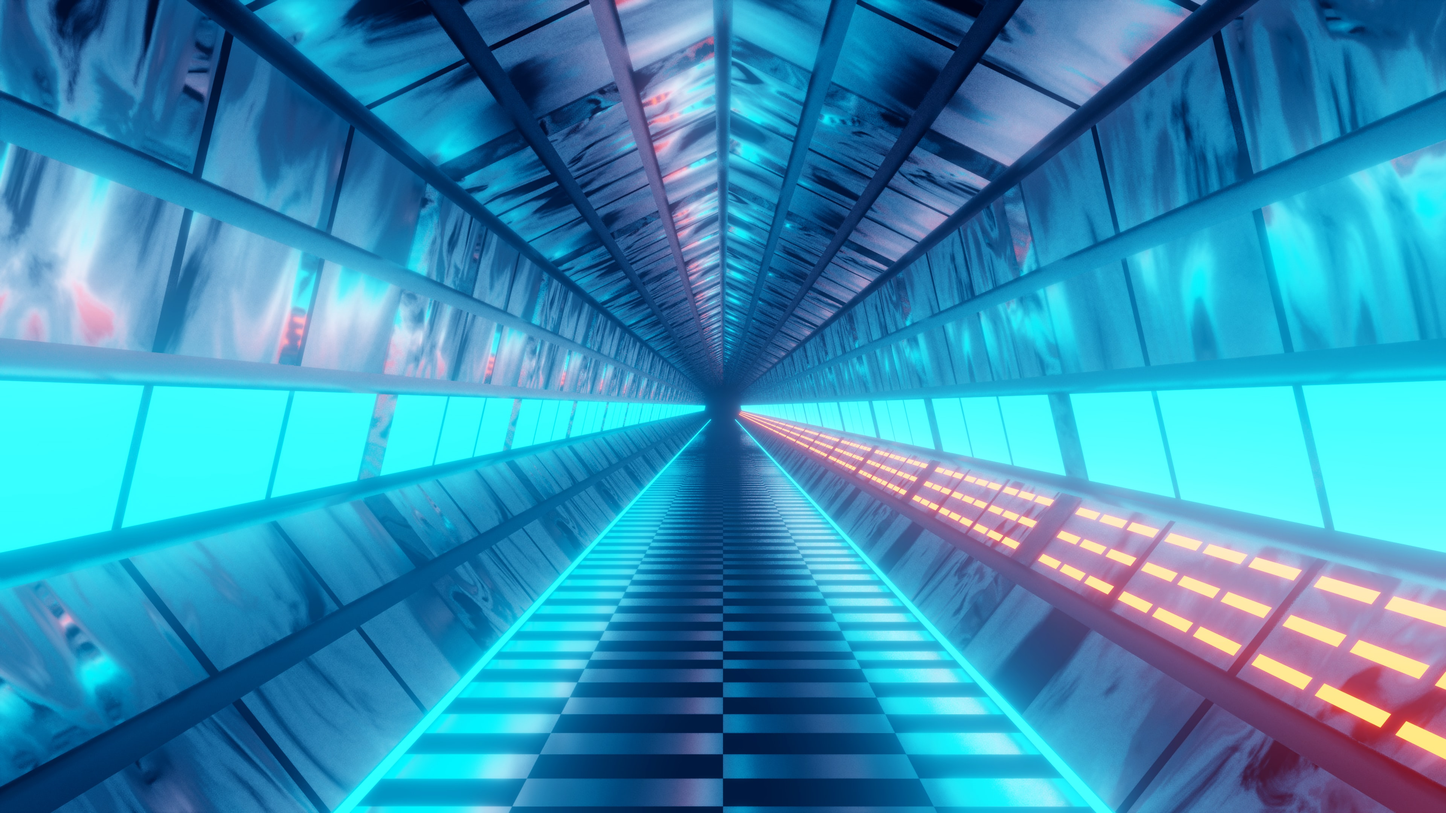
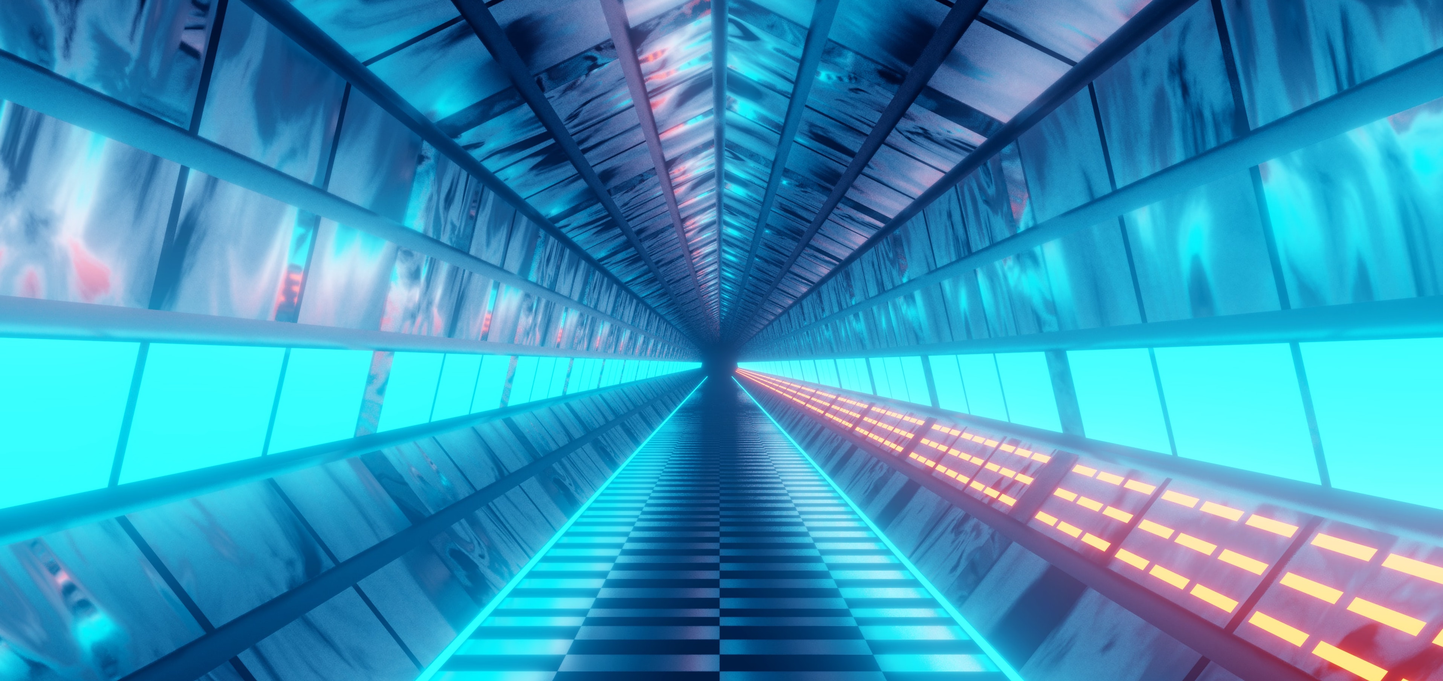
fixing AR index and image size

diff --git a/content/featured/CovidVisualization/index.md b/content/featured/CovidVisualization/index.md
@@ -1,5 +1,5 @@
 ---
-date: '4'
+date: '5'
 title: 'Covid Visualization Dashboard'
 cover: './visualization.png'
 github: 'https://github.com/singhshivam/Covid-visualization'
